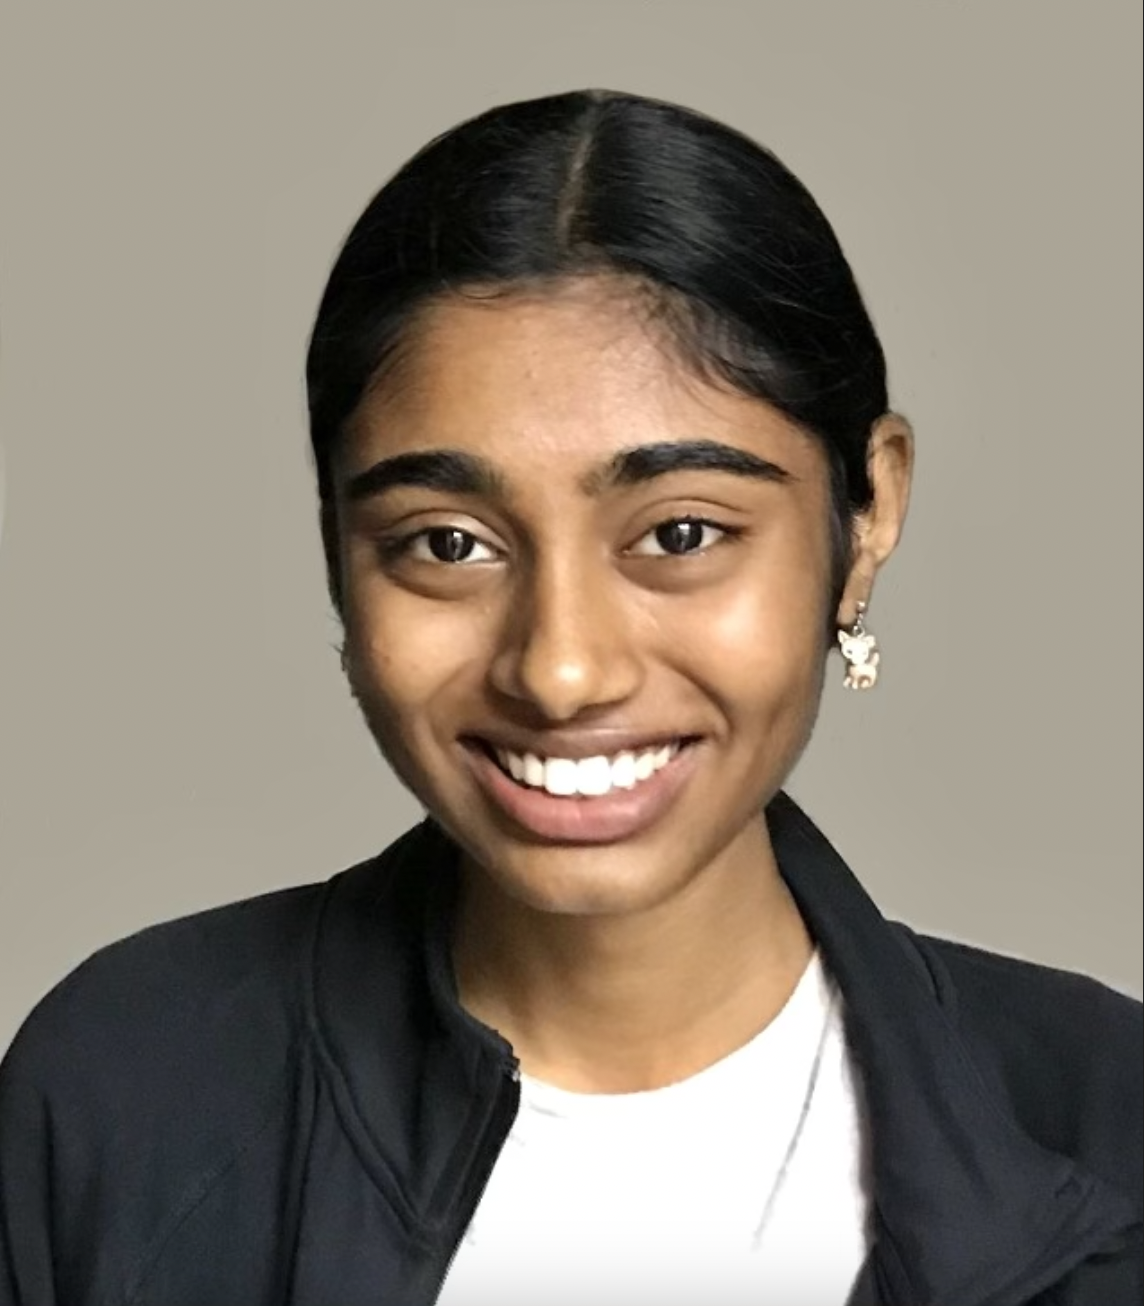
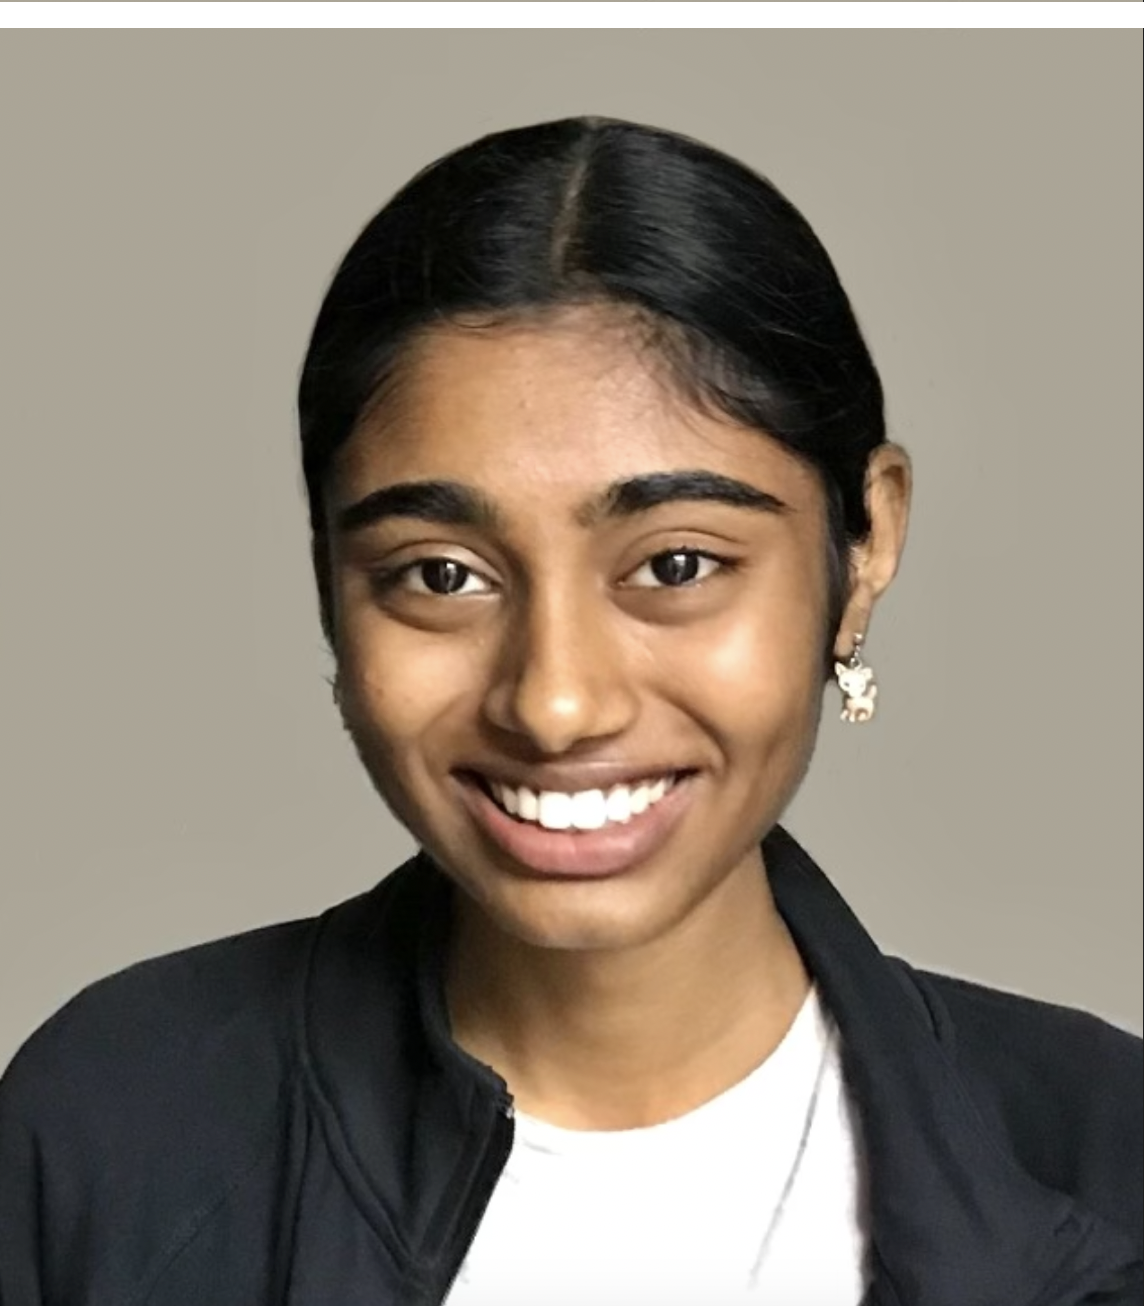
Updated Officer Photos

diff --git a/dist/index.html b/dist/index.html
@@ -572,7 +572,7 @@
             </div>
             <div class="col-lg-4">
                 <div class="team-member">
-                    <img class="mx-auto rounded-circle" src="assets/img/team/default.jpg" alt="..." />
+                    <img class="mx-auto rounded-circle" src="assets/img/team/divya-wics-community.png" alt="..." />
                     <h4>Divya Subramonian</h4>
                     <p class="text-muted">Director Community</p>
                     <a class="btn btn-dark btn-social mx-2" href="mailto: divyasubramonian@ucsb.edu" aria-label="Divya Subramonian Email"><i class="fab fa-solid fa-envelope"></i></a>
@@ -588,7 +588,7 @@
             </div>
             <div class="col-lg-4">
                 <div class="team-member">
-                    <img class="mx-auto rounded-circle" src="assets/img/team/default.jpg" alt="..." />
+                    <img class="mx-auto rounded-circle" src="assets/img/team/Riona Pampati.png" alt="..." />
                     <h4>Riona Pampati</h4>
                     <p class="text-muted">Director Outreach</p>
                     <a class="btn btn-dark btn-social mx-2" href="mailto: riona@ucsb.edu" aria-label="Riona Pampati Email"><i class="fab fa-solid fa-envelope"></i></a>
@@ -596,7 +596,7 @@
             </div>
             <div class="col-lg-4">
                 <div class="team-member">
-                    <img class="mx-auto rounded-circle" src="assets/img/team/default.jpg" alt="..." />
+                    <img class="mx-auto rounded-circle" src="assets/img/team/Maya-WiCS.jpg" alt="..." />
                     <h4>Maya Trieu</h4>
                     <p class="text-muted">Director Public Relations</p>
                     <a class="btn btn-dark btn-social mx-2" href="mailto: mayatrieu@ucsb.edu" aria-label="Maya Trieu Email"><i class="fab fa-solid fa-envelope"></i></a>
